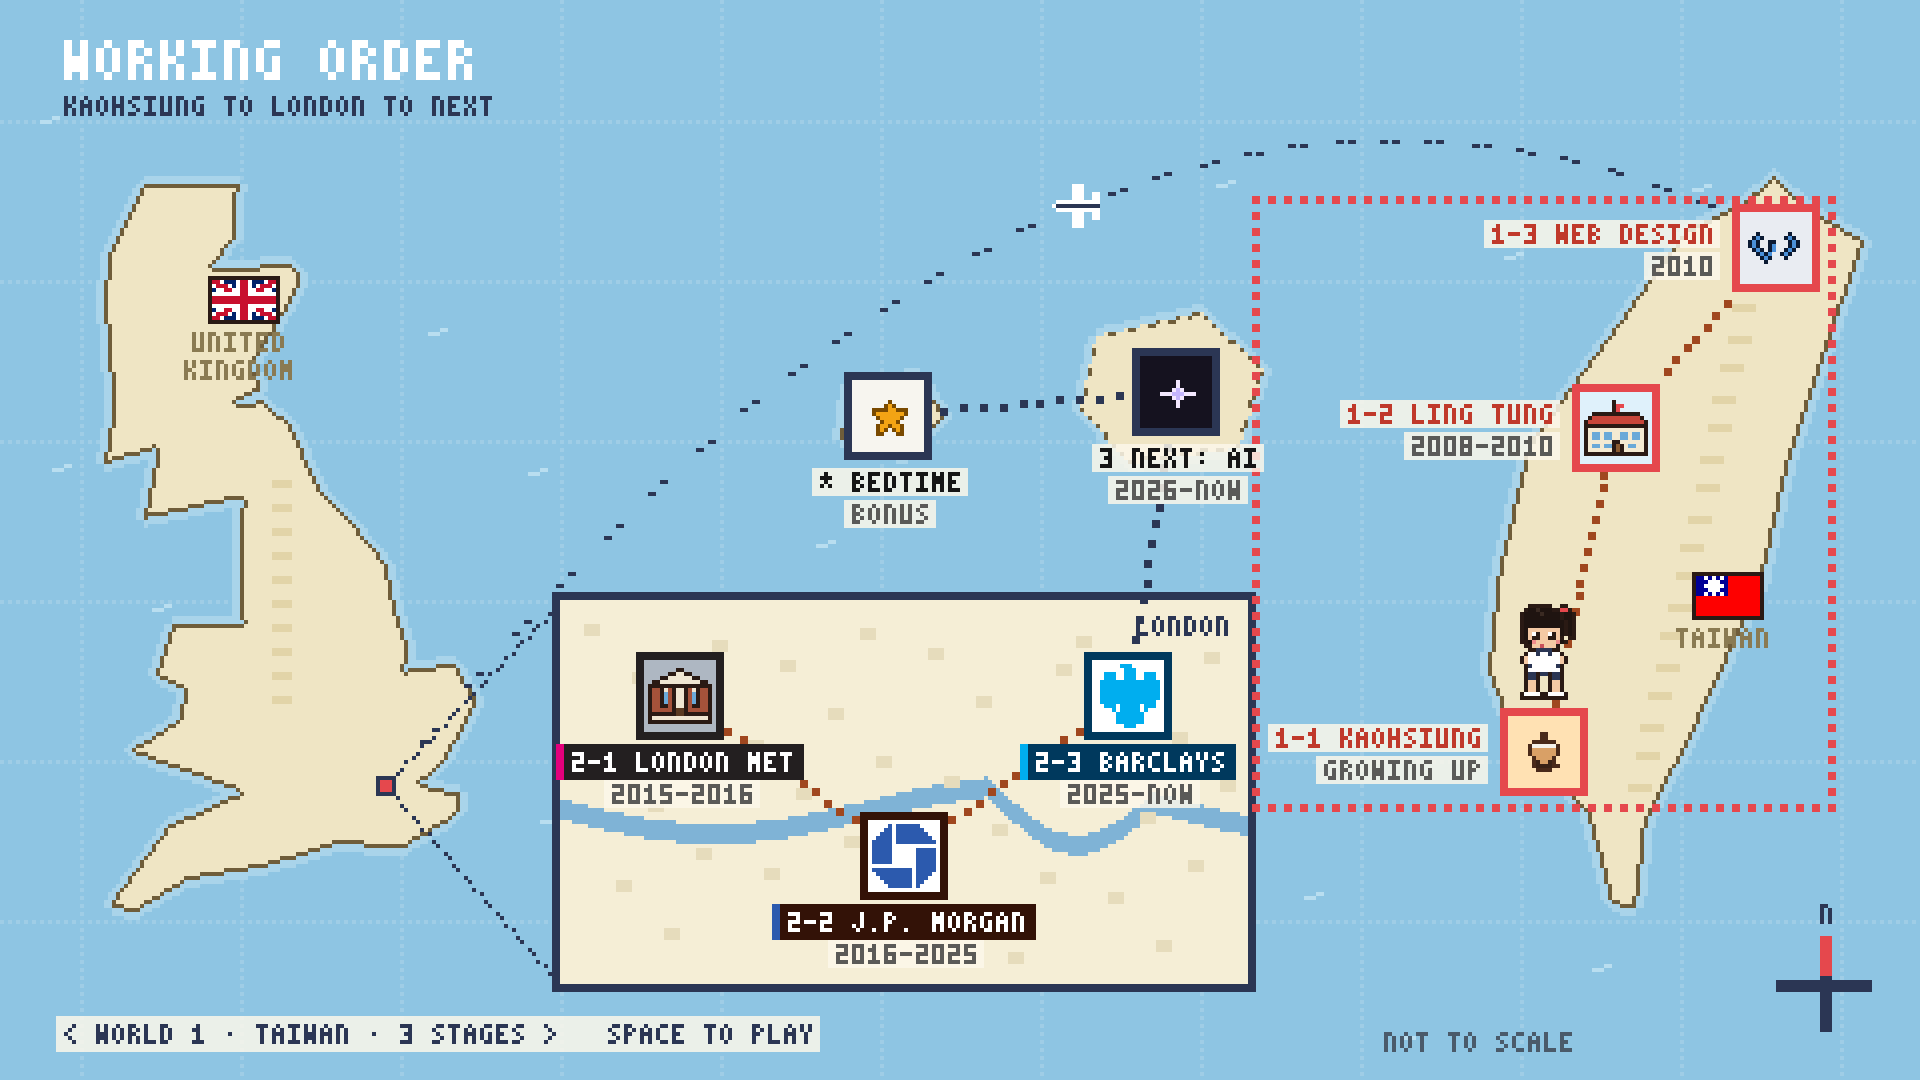
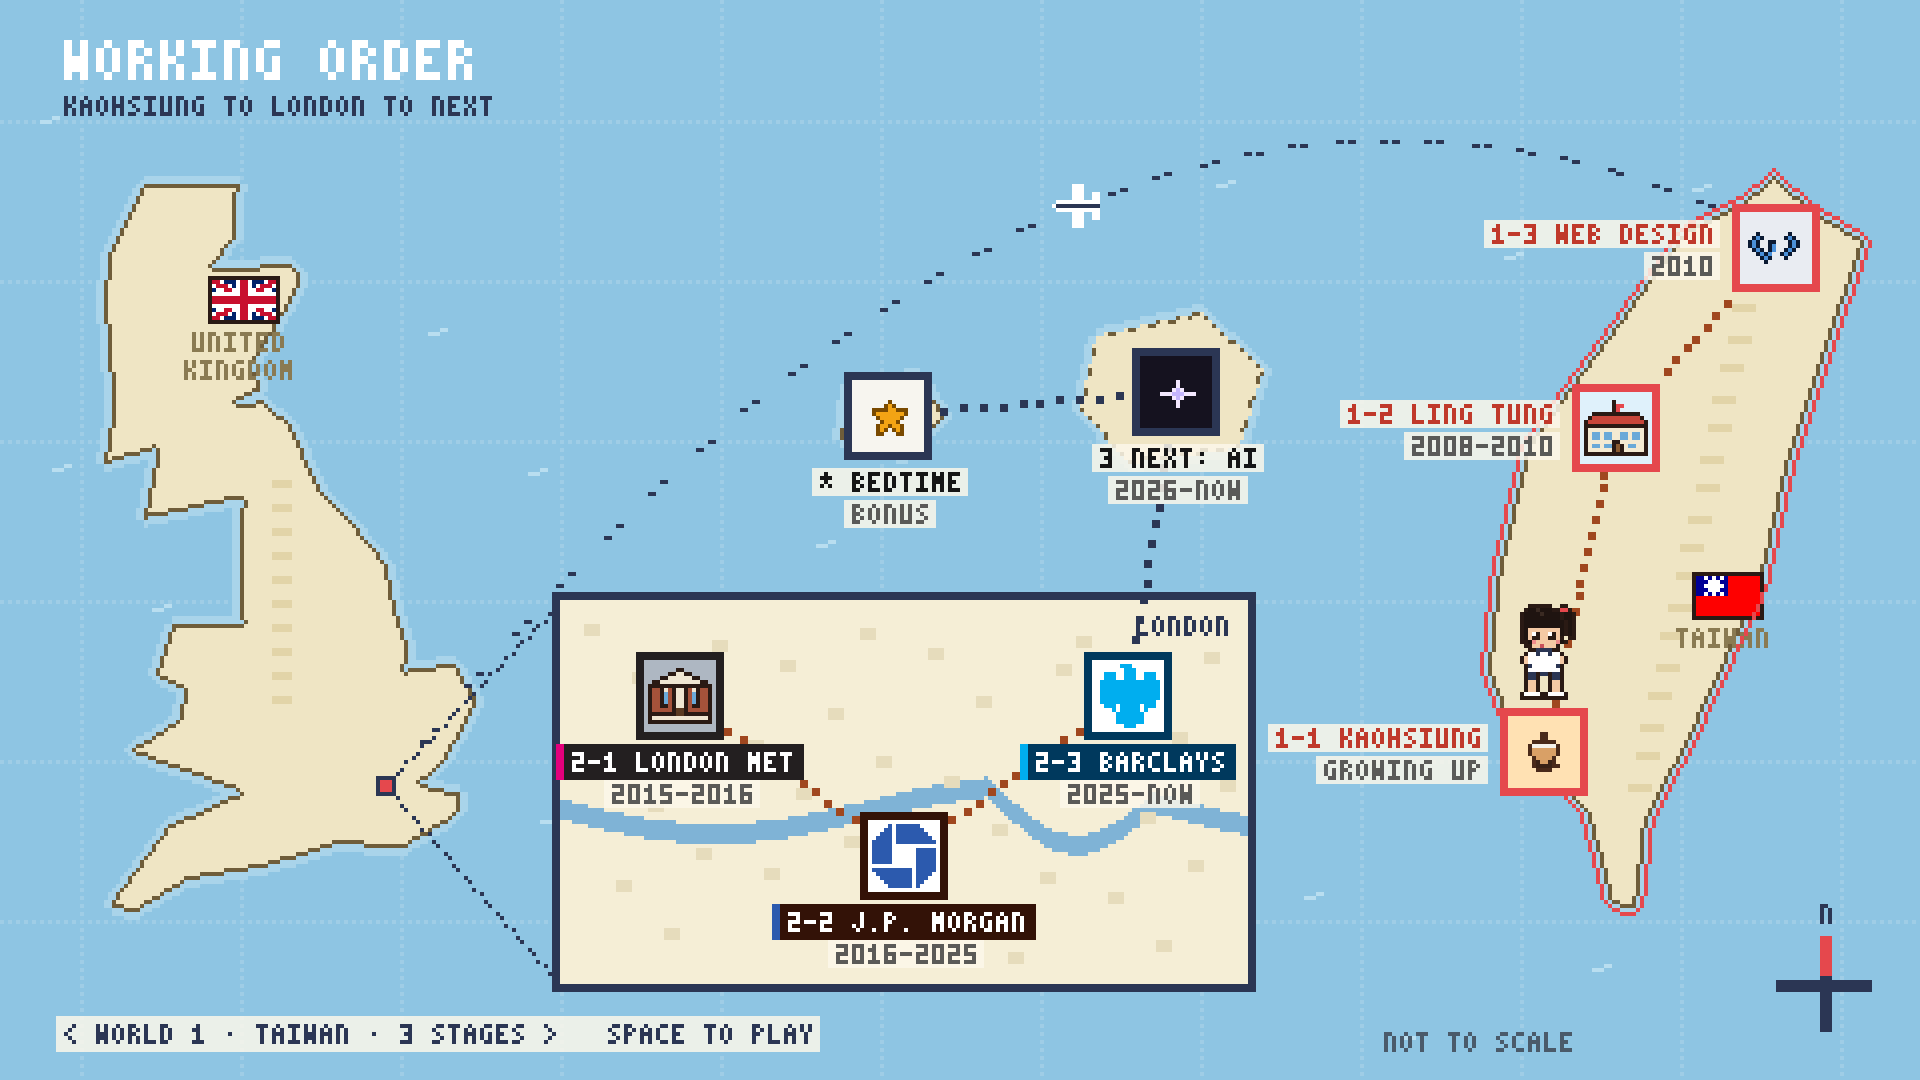
Map: the selected world is outlined by its own coastline, not a box
Claude-Session: https://claude.ai/code/session_01PiRTfcFy5XVS1nrmkuXjvW

diff --git a/src/game/map.ts b/src/game/map.ts
@@ -84,6 +84,26 @@ function coast(g: CanvasRenderingContext2D, x0: number, y0: number, w: number, h
   g.fillStyle = COAST; for (const [x, y] of edge) if (!dashed || (x + y) % 4 < 2) g.fillRect(x0 + x, y0 + y, 1, 1);
 }
 
+/** Selection outlines, one per world, filled in by mapBase(): pixels that hug
+ * the real coastline (Taiwan, the two islands) or the London inset's frame. */
+export const SELECT_RINGS: [number, number][][] = [[], [], [], []];
+
+/** Sea pixels exactly 2 px outside the land inside a box: a line that follows the coast. */
+function ringOf(g: CanvasRenderingContext2D, x0: number, y0: number, w: number, h: number) {
+  const d = g.getImageData(x0, y0, w, h).data;
+  let m = new Uint8Array(w * h);
+  for (let i = 0; i < w * h; i++) m[i] = d[i * 4] > 200 && d[i * 4 + 1] > 190 && d[i * 4 + 2] < 215 ? 1 : 0;
+  const grow = (a: Uint8Array) => {
+    const b = a.slice();
+    for (let y = 0; y < h; y++) for (let x = 0; x < w; x++) if (!a[y * w + x] && ((x > 0 && a[y * w + x - 1]) || (x < w - 1 && a[y * w + x + 1]) || (y > 0 && a[(y - 1) * w + x]) || (y < h - 1 && a[(y + 1) * w + x]))) b[y * w + x] = 1;
+    return b;
+  };
+  const d1 = grow(m), d2 = grow(d1);
+  const out: [number, number][] = [];
+  for (let y = 0; y < h; y++) for (let x = 0; x < w; x++) if (d2[y * w + x] && !d1[y * w + x]) out.push([x0 + x, y0 + y]);
+  return out;
+}
+
 export function mapBase(): HTMLCanvasElement {
   const { c, g, px } = canvas(480, 270);
   // sea, graticule, a few waves
@@ -96,16 +116,19 @@ export function mapBase(): HTMLCanvasElement {
   const tw = project(TAIWAN, 372, 44, 54, 120.1, 25.3, 23.5);
   const uk = project(BRITAIN, 26, 46, 21, -5.8, 58.64, 54);
   fillPoly(px, tw, LAND); fillPoly(px, uk, LAND);
+  SELECT_RINGS[0] = ringOf(g, 360, 30, 120, 210); // Taiwan
   // Taiwan's Central Mountain Range, Britain's Pennines: hatched hills
   const [m0x, m0y] = TW(121.4, 24.7), [m1x, m1y] = TW(120.85, 22.4);
   for (let t = 0; t <= 1; t += 0.06) px(Math.round(m0x + (m1x - m0x) * t) - 3, Math.round(m0y + (m1y - m0y) * t), HILL, 6, 2);
   for (let y = 120; y < 175; y += 6) px(Math.round(UK(-2.2, 54.5)[0]) - 2, y, HILL, 5, 2);
   // a small island for the bonus world
   fillPoly(px, [[212, 96], [230, 94], [236, 104], [226, 114], [210, 110]], LAND);
+  SELECT_RINGS[3] = ringOf(g, 200, 84, 46, 40); // the bonus island
   coast(g, 0, 0, 480, 270);
   // the uncharted AI island: its coast is dashed, still being drafted
   fillPoly(px, [[274, 84], [300, 78], [316, 92], [310, 112], [282, 116], [270, 102]], LAND);
   coast(g, 262, 70, 64, 56, true);
+  SELECT_RINGS[2] = ringOf(g, 258, 66, 70, 62); // the AI island
 
   // flight: a dashed arc from Taipei to London, with a little plane at the top
   const [ax, ay] = [NODES[2][0] - 6, NODES[2][1] - 6], [bx, by] = LONDON, cx = 270, cy = -24;
@@ -121,6 +144,9 @@ export function mapBase(): HTMLCanvasElement {
 
   // the London inset: a frame, leader lines to London, the Thames with its loop
   const I = INSET;
+  // London: the inset's frame, just outside its border
+  for (let x = I.x - 4; x <= I.x + I.w + 3; x++) for (const y of [I.y - 4, I.y + I.h + 3]) SELECT_RINGS[1].push([x, y]);
+  for (let y = I.y - 4; y <= I.y + I.h + 3; y++) for (const x of [I.x - 4, I.x + I.w + 3]) SELECT_RINGS[1].push([x, y]);
   for (let t = 0; t <= 1; t += 0.03) { px(Math.round(LONDON[0] + (I.x - LONDON[0]) * t), Math.round(LONDON[1] + (I.y - LONDON[1]) * t), INK); px(Math.round(LONDON[0] + (I.x - LONDON[0]) * t), Math.round(LONDON[1] + (I.y + I.h - LONDON[1]) * t), INK); }
   px(LONDON[0] - 2, LONDON[1] - 2, INK, 5, 5); px(LONDON[0] - 1, LONDON[1] - 1, '#e5484d', 3, 3);
   px(I.x - 2, I.y - 2, INK, I.w + 4, I.h + 4); px(I.x, I.y, '#f5eed6', I.w, I.h);

diff --git a/src/game/main.ts b/src/game/main.ts
@@ -8,7 +8,7 @@ import { LEVELS } from './levels';
 import { THEMES, playerFrames, helmet, pet, scooter, type Theme } from './art';
 import { FOES, type Foe } from './enemies';
 import { text, textWidth } from './pixel';
-import { mapBase, NODES, labelAt, BRAND, SCHOOL_ICONS, LOGO_ICONS } from './map';
+import { mapBase, NODES, labelAt, BRAND, SCHOOL_ICONS, LOGO_ICONS, SELECT_RINGS } from './map';
 import { CHAPTERS, chapterOf, stageCode } from '../lib/journey';
 import { sfx } from './sound';
 export { setSound } from './sound';
@@ -465,22 +465,9 @@ export function start(canvas: HTMLCanvasElement, opts: Opts) {
     };
     [0, 1, 3, 4].forEach((i) => route(i, '#a0471f', 4));
     [5, 6].forEach((i) => route(i, '#2b3654', 5));
-    // the selected world: one dashed red frame around all of its stages
-    {
-      const st = CHAPTERS[chapterOf(mapSel)].stages as readonly number[];
-      let x0 = 1e9, y0 = 1e9, x1 = -1e9, y1 = -1e9;
-      for (const i of st) {
-        const [x, y] = NODES[i];
-        x0 = Math.min(x0, x - 13); y0 = Math.min(y0, y - 13); x1 = Math.max(x1, x + 13); y1 = Math.max(y1, y + 13);
-        for (const [k, l] of [`${stageCode(i)} ${WORLDS[i].short}`, WORLDS[i].when].entries()) {
-          const [lx, ly] = labelAt(i, l, k);
-          x0 = Math.min(x0, lx - 6); x1 = Math.max(x1, lx + textWidth(l) + 5); y1 = Math.max(y1, ly + 9);
-        }
-      }
-      ctx.fillStyle = '#e5484d';
-      for (let x = x0; x <= x1; x += 4) { ctx.fillRect(x, y0, 2, 2); ctx.fillRect(x, y1, 2, 2); }
-      for (let y = y0; y <= y1; y += 4) { ctx.fillRect(x0, y, 2, 2); ctx.fillRect(x1, y, 2, 2); }
-    }
+    // the selected world: a red line around its own coastline (or London's inset frame)
+    ctx.fillStyle = '#e5484d';
+    for (const [x, y] of SELECT_RINGS[chapterOf(mapSel)]) ctx.fillRect(x, y, 1, 1);
     NODES.forEach(([x, y], i) => {
       const sel = chapterOf(i) === chapterOf(mapSel), done = s.done.includes(i);
       const brand = BRAND[i];

diff --git a/BUILD.md b/BUILD.md
@@ -238,3 +238,9 @@ How this site was made, kept honest. Shannon writes the entries marked **Shannon
 - **robots.txt stays open on purpose:** a Disallow there would stop crawlers reading the noindex, and a blocked URL can still turn up in search as a bare link.
 - **Lighthouse gate:** CI now skips Lighthouse's `is-crawlable` audit, the one check this choice fails by design. Every category is still 100, mobile and desktop.
 - **Limit:** noindex keeps the site out of search; it doesn't password-protect it. Anyone with the link can open it, so share the link only with the panel. A password would need Vercel's paid Deployment Protection, or Vercel Authentication, which would make interviewers log in to Vercel.
+
+### PR 18 · Selection follows the coastline (Shannon: "can't the red dotted square be the Taiwan shape?")
+
+- **Coastline outline:** the selected world is now outlined by its own shape, not a box. A red line runs 2 px outside the real coastline of Taiwan, of the AI island and of the bonus island. For London it goes around the inset frame.
+- **How:** each outline is computed once from the land pixels when the map is drawn (`SELECT_RINGS` in `src/game/map.ts`).
+- **Why solid:** I tried a dotted version first. At this size it broke up into noise along the curved coast, so the line is solid.
